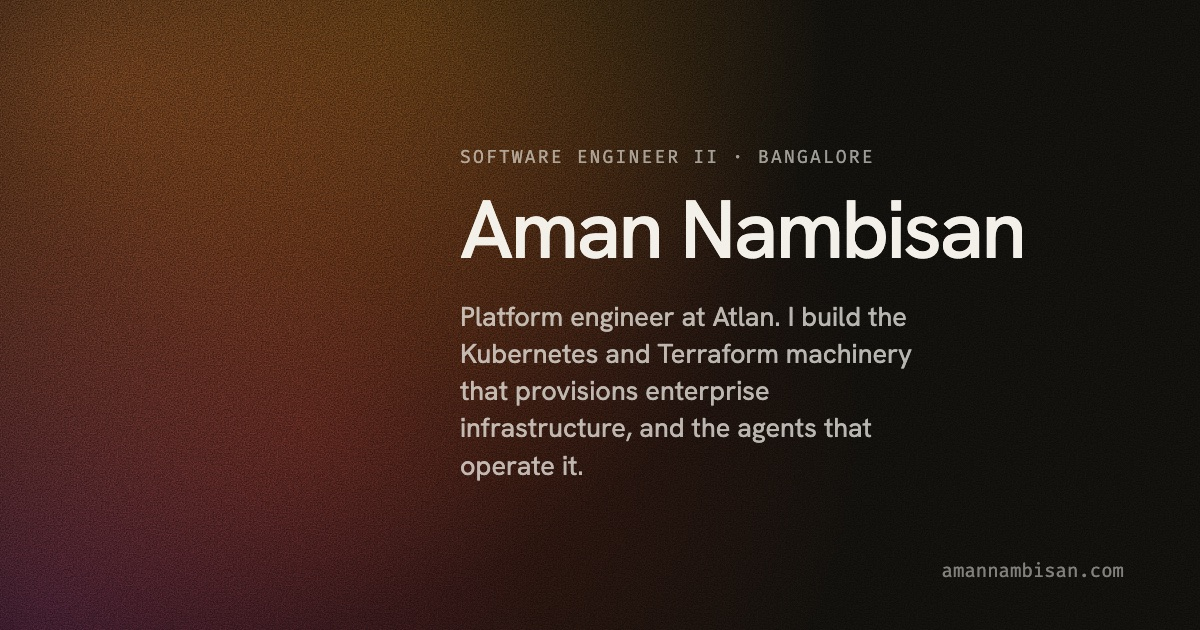
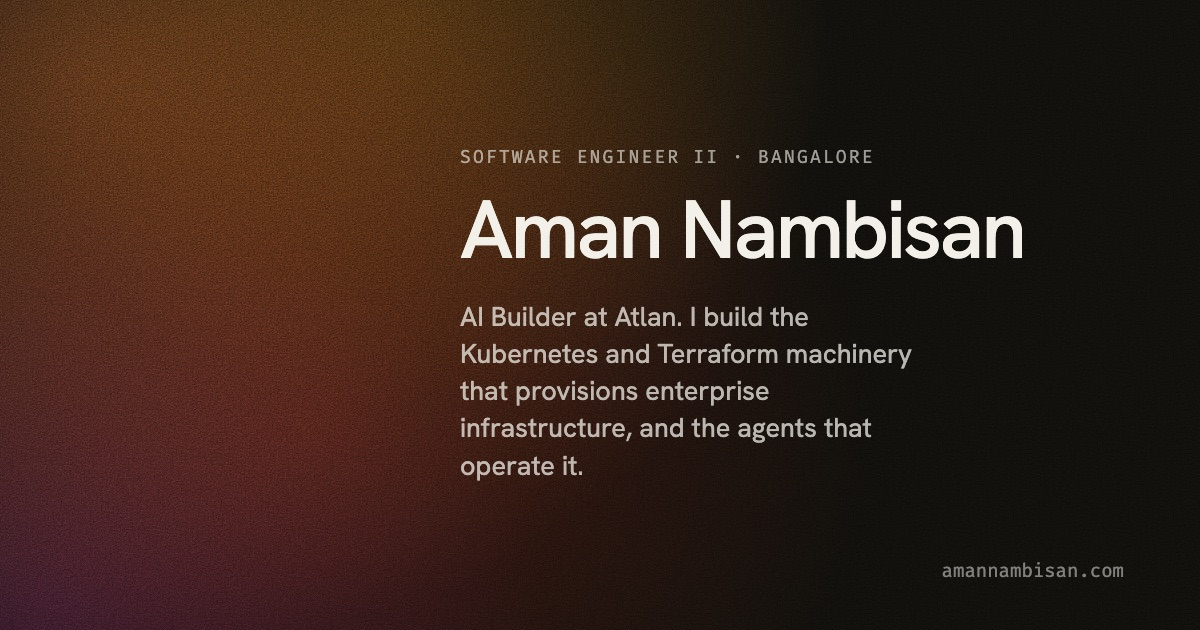
Call him an AI Builder in the description and the social card
The meta description, og:description and Person.description open with the
title the shell's title bar already uses; the card is re-rendered from it.

Claude-Session: https://claude.ai/code/session_013cDPQ21N4ewoKBNLnYcA2j

Changed region(s): [[0.37, 0.4825, 0.7708, 0.5429]]

diff --git a/src/content/profile.ts b/src/content/profile.ts
@@ -14,7 +14,7 @@ export const profile = {
 
   /** The meta description, og:description and Person.description. 120–160 chars. */
   tagline:
-    "Platform engineer at Atlan. I build the Kubernetes and Terraform machinery that provisions enterprise infrastructure, and the agents that operate it.",
+    "AI Builder at Atlan. I build the Kubernetes and Terraform machinery that provisions enterprise infrastructure, and the agents that operate it.",
 
   /** The home page's h1, in the shell's title bar: "<name>, <headline> at <employer>". */
   headline: "AI Builder",
